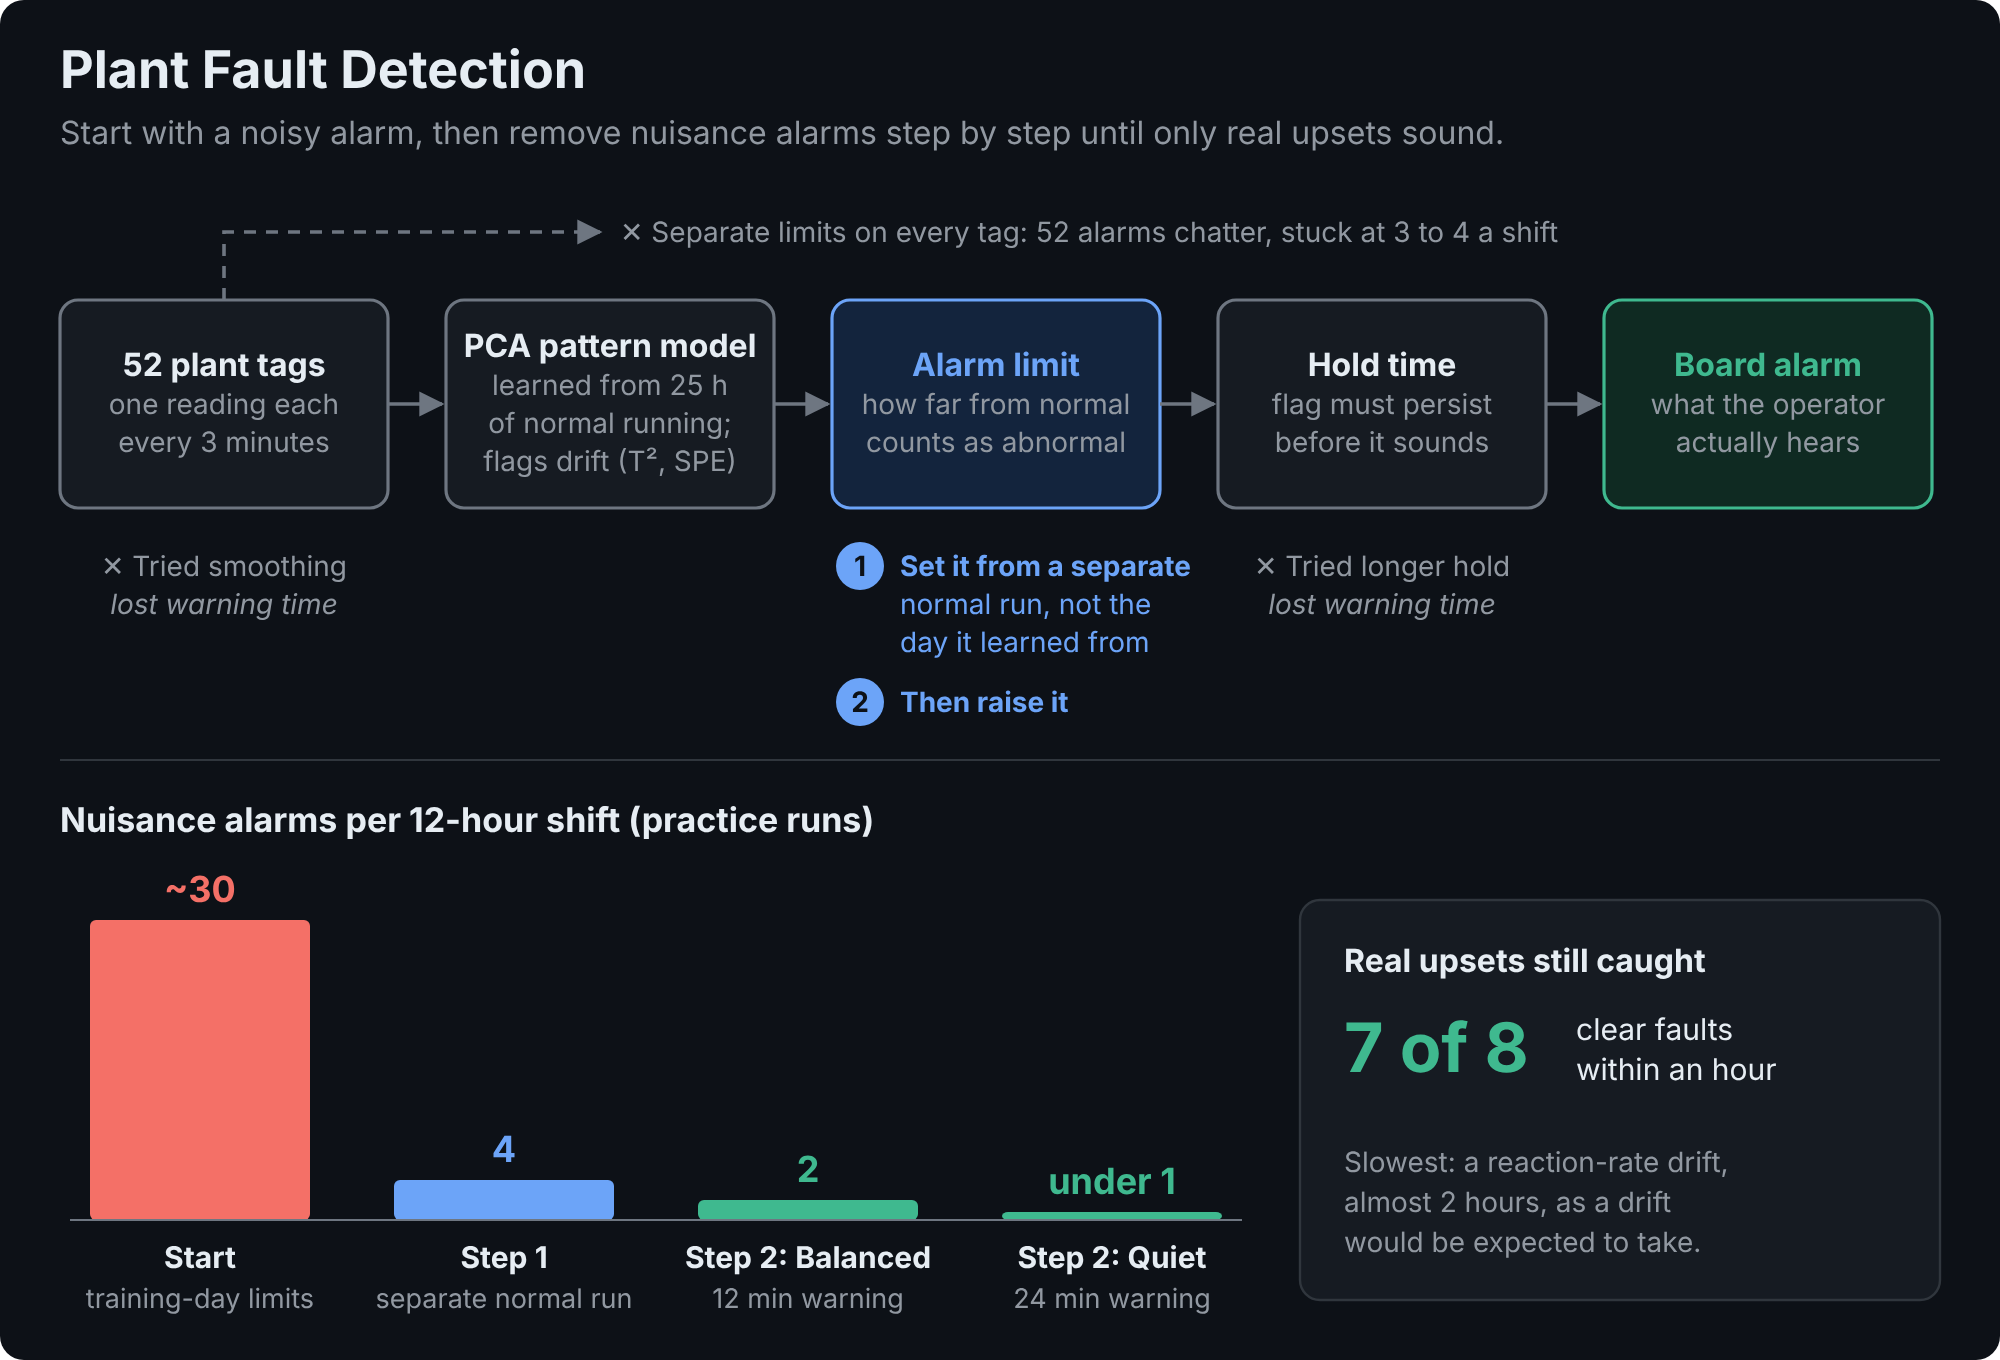
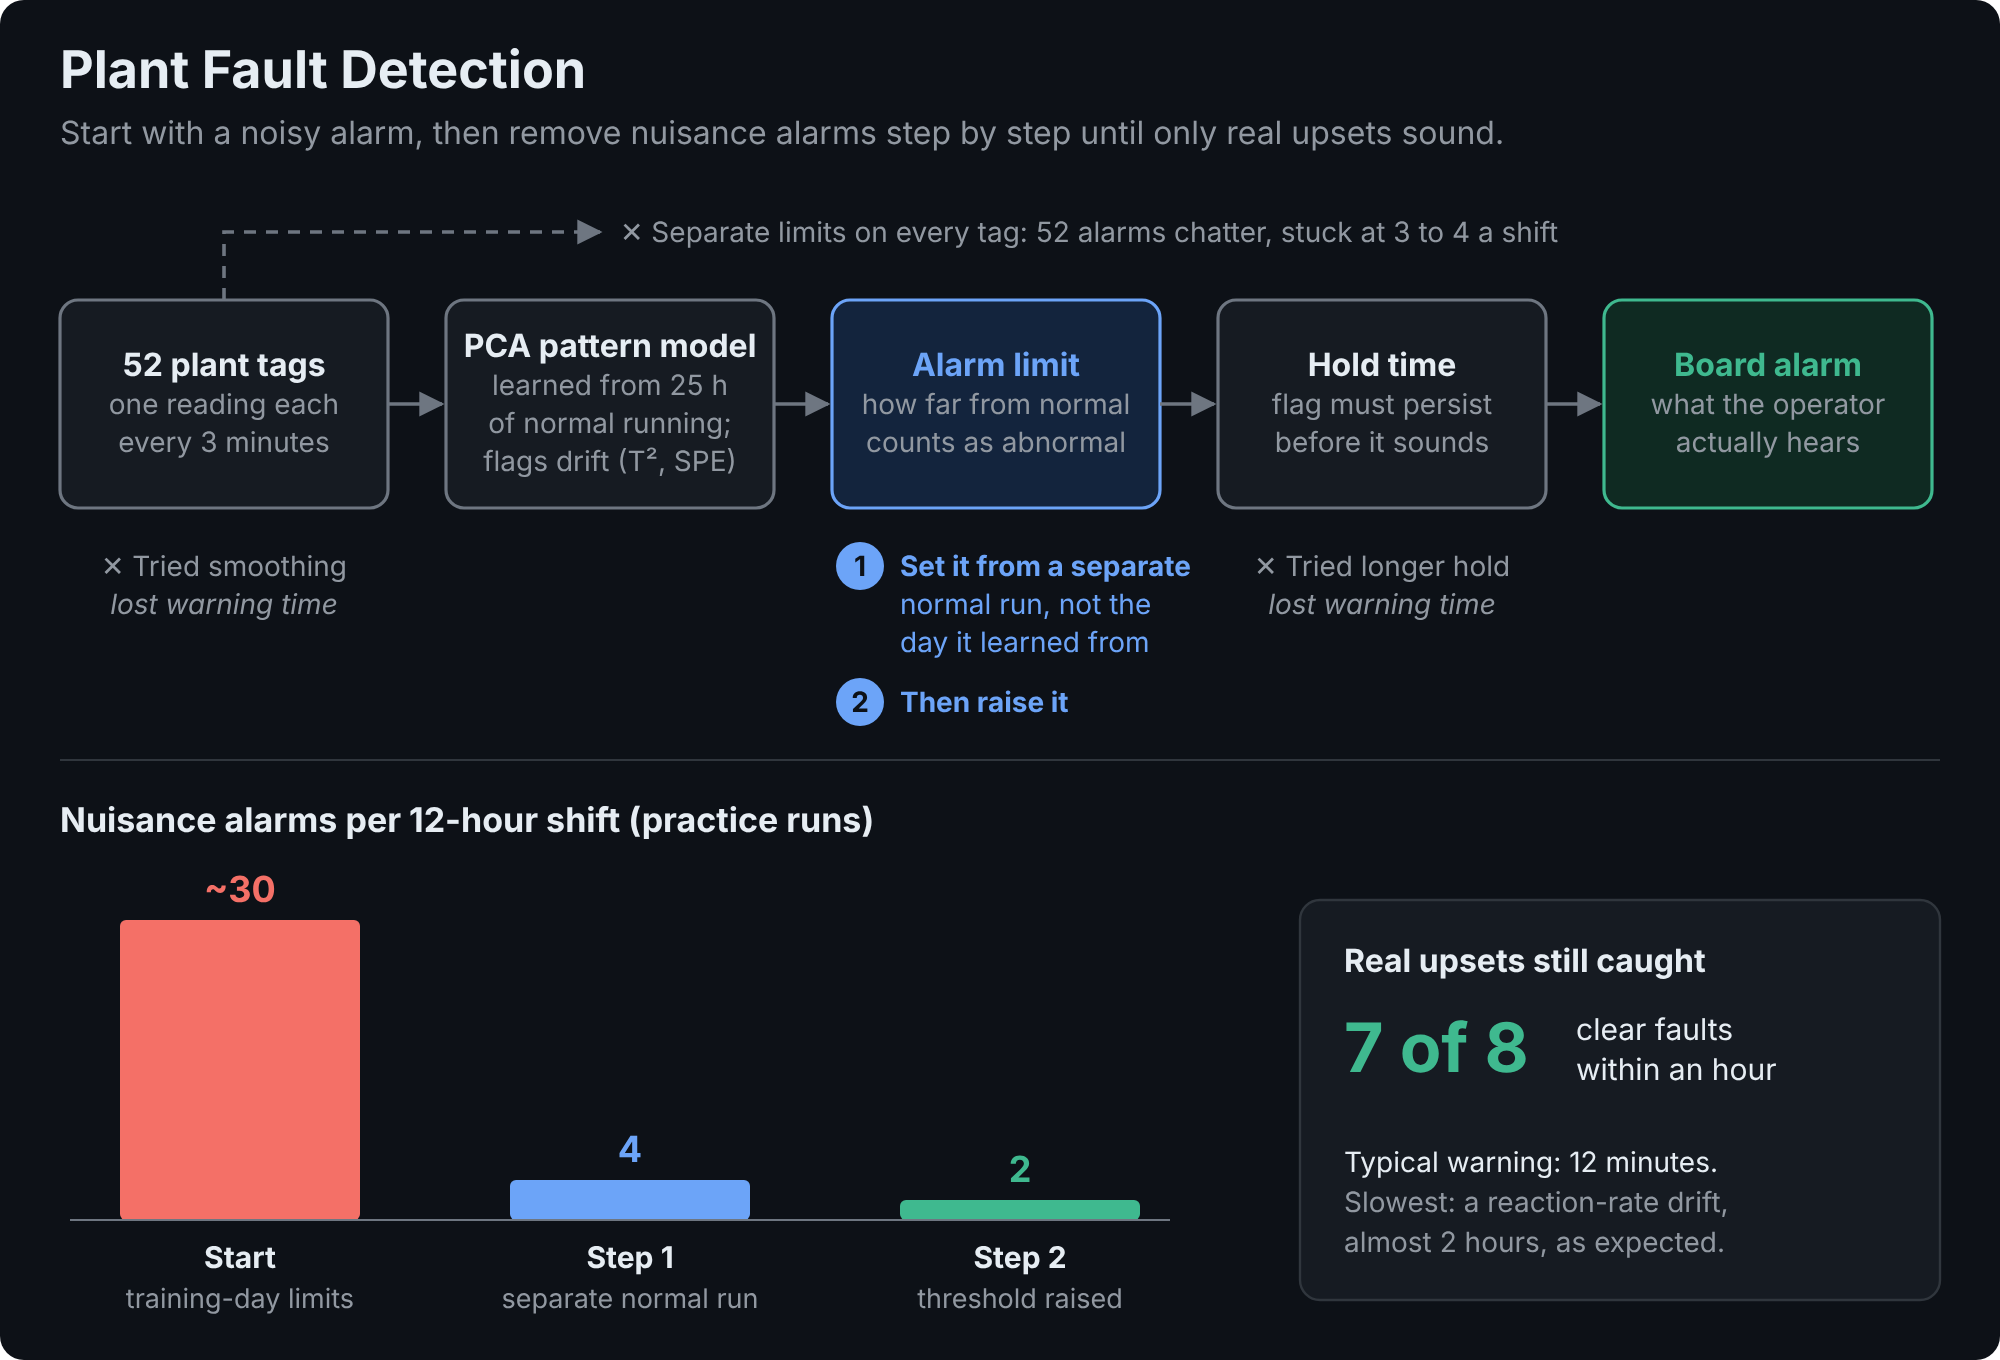
Update the how-it-works diagram to the balanced setting
Claude-Session: https://claude.ai/code/session_01LPMybPVyKNobbL37kZS8M9

diff --git a/README.md b/README.md
@@ -12,7 +12,7 @@ I'm Nathan Ramos. I ran chemical process units for more than ten years at NOVA C
 
 <picture>
   <source media="(prefers-color-scheme: dark)" srcset="docs/plant-fault-detection-dark.png">
-  <img alt="52 tags feed a PCA model, an alarm limit and a hold time before the board alarm. Setting the limit from a separate normal run, then raising it, cuts nuisance alarms from about 30 a shift to 4, then 2 or under 1, while still catching 7 of 8 clear faults within an hour." src="docs/plant-fault-detection.png">
+  <img alt="52 tags feed a PCA model, an alarm limit and a hold time before the board alarm. Setting the limit from a separate normal run, then raising it, cuts nuisance alarms from about 30 a shift to 4, then 2, while still catching 7 of 8 clear faults within an hour." src="docs/plant-fault-detection.png">
 </picture>
 
 ## The steps
